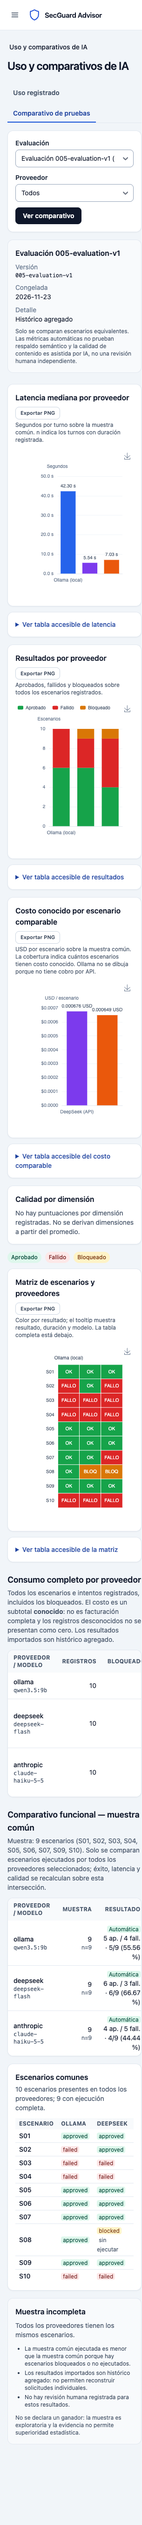
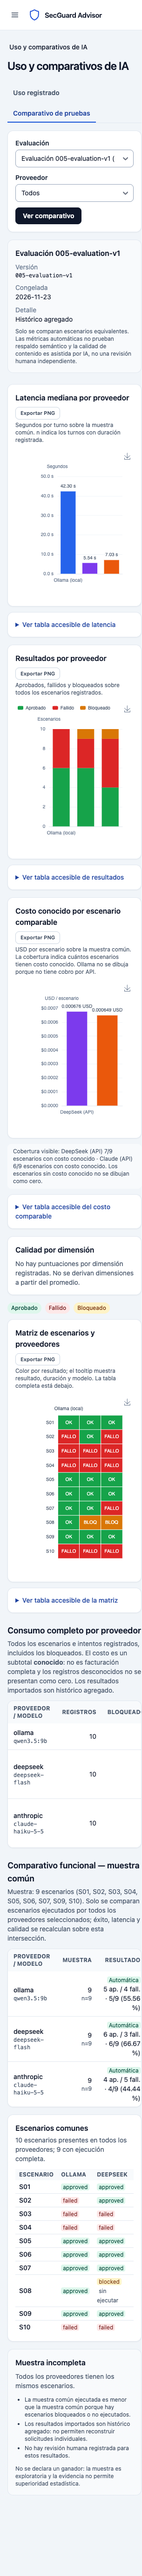
fix(usage): mostrar cobertura visible en costo comparable

Changed region(s): [[0.059, 0.0, 1.0, 0.967], [0.6492, 0.0, 0.7082, 0.0312], [0.8852, 0.3743, 0.9148, 0.4055]]

diff --git a/src/secguard_advisor/web/templates/ai_usage/_charts.html b/src/secguard_advisor/web/templates/ai_usage/_charts.html
@@ -140,6 +140,11 @@
 {% macro comparison_cost(charts) %}
 {% if charts.cost %}
 {{ chart_shell("chart-comparison-cost", "Costo conocido por escenario comparable", "USD por escenario sobre la muestra común. La cobertura indica cuántos escenarios tienen costo conocido. Ollama no se dibuja porque no tiene cobro por API.", "comparison-cost", charts.cost) }}
+<p class="rounded-lg bg-slate-50 px-3 py-2 text-xs text-slate-600">
+  Cobertura visible:
+  {% for item in charts.cost %}{{ item.name }} {{ item.coverage }}{% if not loop.last %} · {% endif %}{% endfor %}.
+  Los escenarios sin costo conocido no se dibujan como cero.
+</p>
 <details class="rounded-xl border border-slate-200 bg-white p-4 shadow-sm">
   <summary class="cursor-pointer text-sm font-medium text-blue-800">Ver tabla accesible del costo comparable</summary>
   <table class="mt-2 w-full text-left text-sm">
